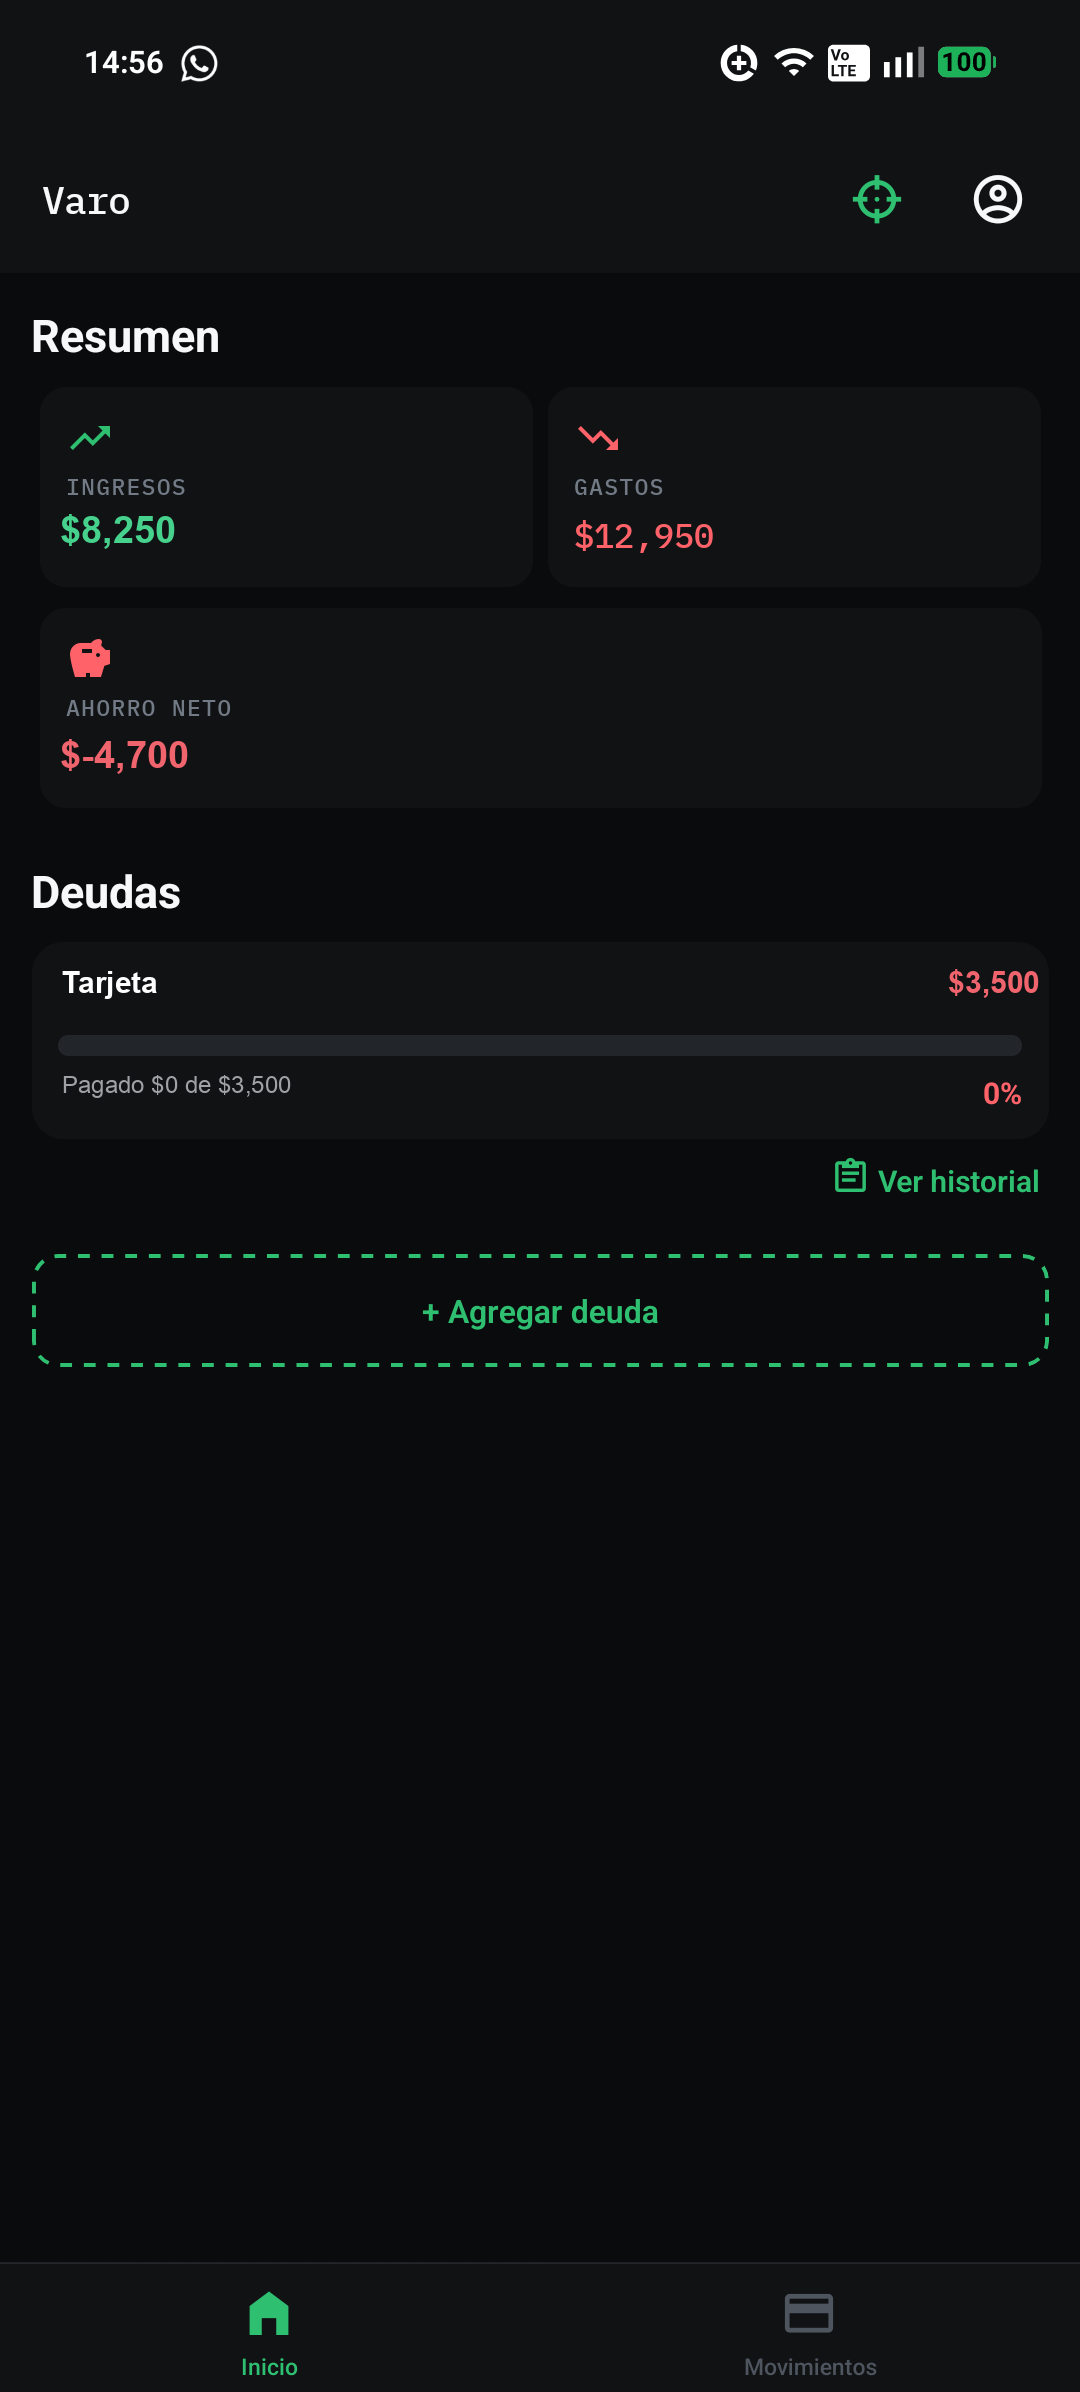
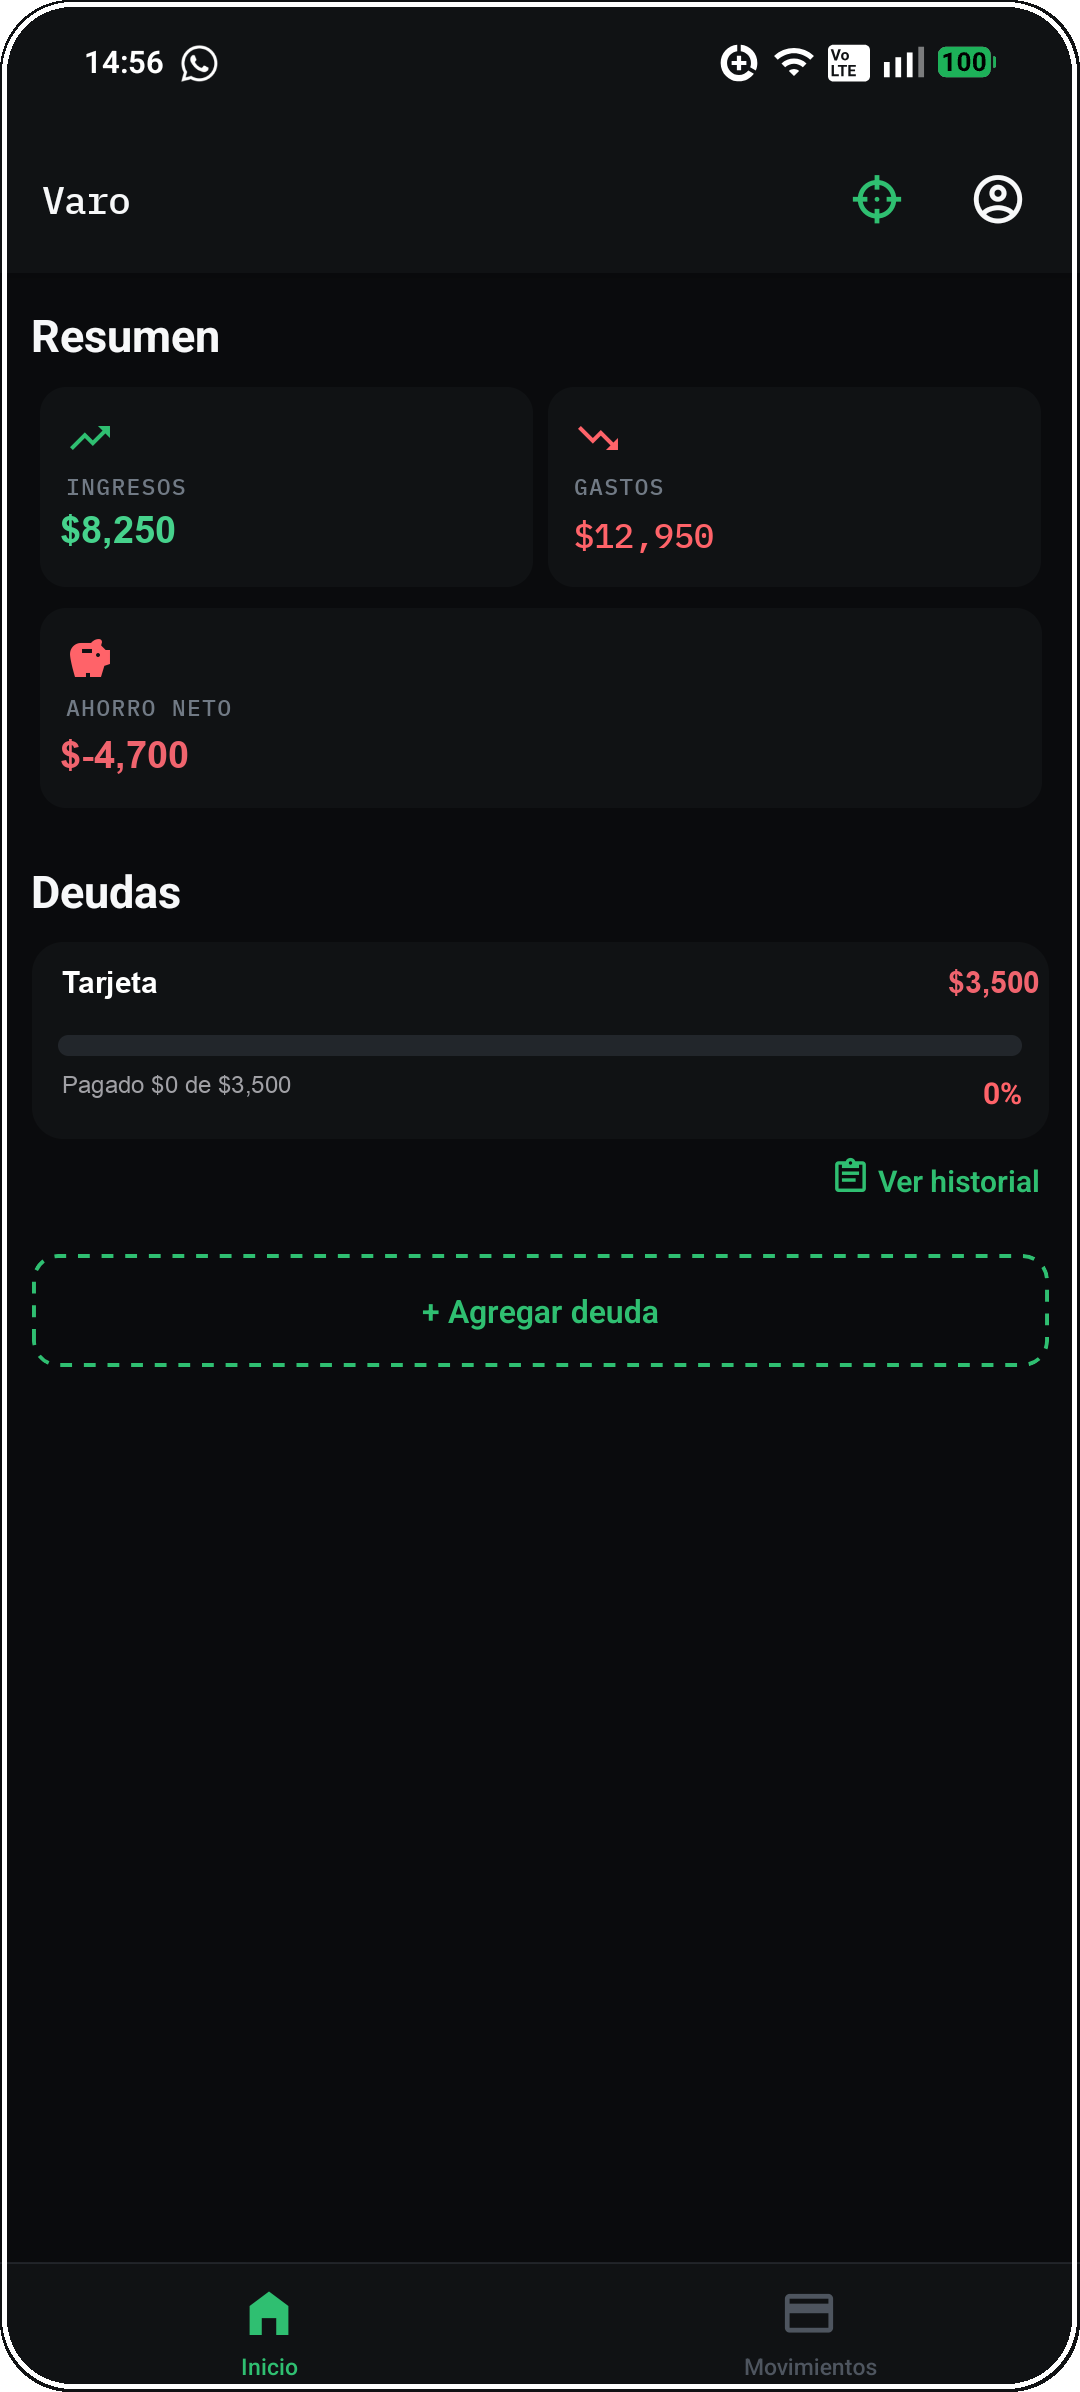
feat: update README with new screenshots and enhance app description

Changed region(s): [[0.0, 0.0, 1.0, 1.0]]

diff --git a/README.md b/README.md
@@ -1,14 +1,42 @@
 # Varo
 
-App móvil de finanzas personales para Android.
+App móvil de finanzas personales para Android. Registra tus movimientos, escanea tickets con IA, y sigue tus metas de ahorro con una predicción automática de cuándo las vas a cumplir.
 
-<p align="center">
-  <img src=".github/screenshots/dashboard.png" width="230" alt="Dashboard de Varo" />
-  <img src=".github/screenshots/movimientos.png" width="230" alt="Lista de movimientos con filtros" />
-  <img src=".github/screenshots/meta.png" width="230" alt="Detalle de una meta de ahorro" />
-</p>
+<table align="center">
+  <tr>
+    <td align="center">
+      <img src=".github/screenshots/dashboard.png" width="220" alt="Dashboard de Varo" /><br/>
+      <sub><b>Dashboard</b></sub>
+    </td>
+    <td align="center">
+      <img src=".github/screenshots/movimientos.png" width="220" alt="Lista de movimientos con filtros" /><br/>
+      <sub><b>Movimientos</b></sub>
+    </td>
+    <td align="center">
+      <img src=".github/screenshots/meta.png" width="220" alt="Detalle de una meta de ahorro" /><br/>
+      <sub><b>Metas</b></sub>
+    </td>
+  </tr>
+</table>
 
-> Descripción completa, features y stack: **[varo_backend](https://github.com/Hector0122/varo_backend)**
+## Por qué existe
+
+La mayoría de apps de finanzas piden que captures cada gasto a mano, y eso hace que la gente deje de usarlas a la semana. Varo resuelve eso de dos formas: **escaneo de tickets con IA** (foto al comprobante, la app extrae monto, categoría y fecha) y un **motor de predicción** que dice, con base en el historial real del usuario, si va a llegar a su meta de ahorro a tiempo o no.
+
+## Features
+
+- 📊 Dashboard con resumen de ingresos, gastos, ahorro neto y progreso de la meta principal
+- 🧾 Escaneo de tickets con IA (Groq Vision)
+- 🎯 Metas de ahorro con asignación porcentual y forecast de cumplimiento
+- 💳 Deudas con historial de pagos e incrementos
+- 🔒 Bloqueo de app (PIN / biometría) + JWT con refresh tokens
+- 📤 Exportar movimientos a CSV
+
+## Stack
+
+React Native · TypeScript · React Navigation · TanStack Query
+
+> API en NestJS + PostgreSQL: **[varo_backend](https://github.com/Hector0122/varo_backend)**
 
 ## Licencia
 
